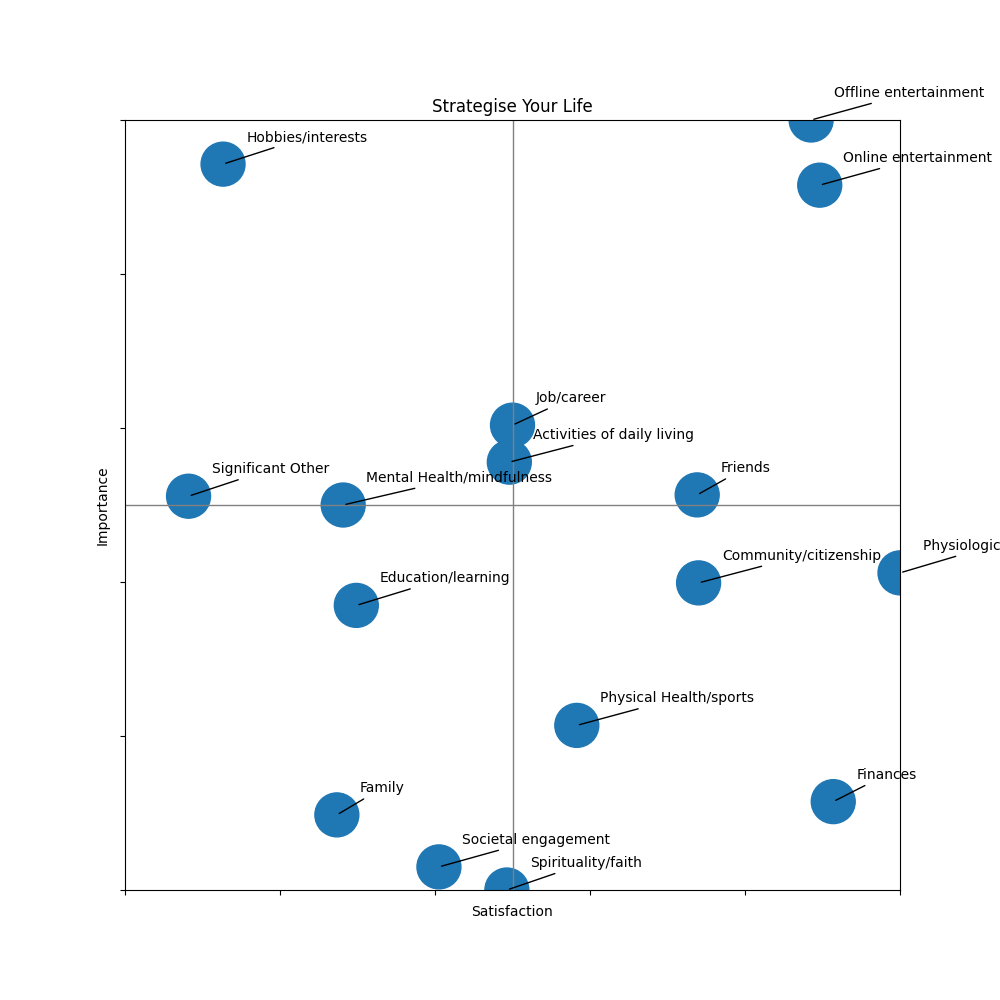
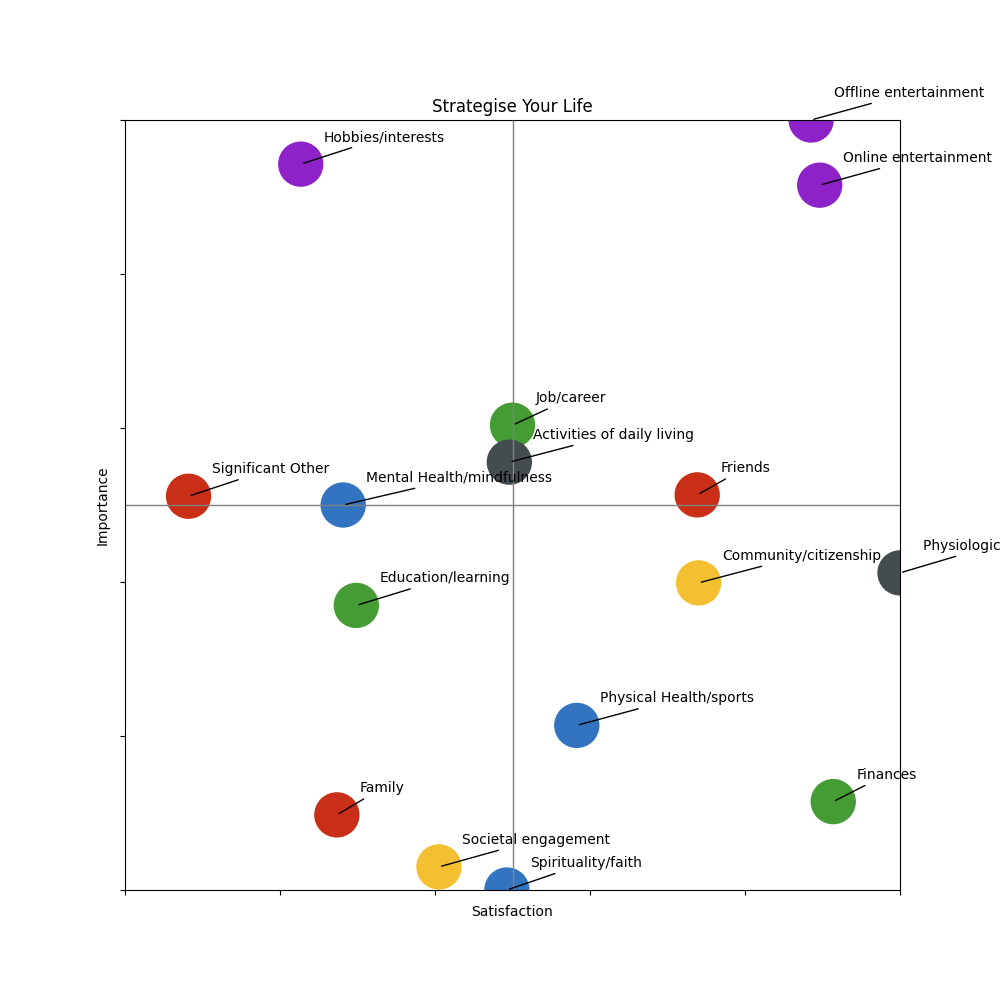
Added colours to the chart

diff --git a/website/visuals.py b/website/visuals.py
@@ -12,6 +12,16 @@ def CreateVisual():
   df = pd.read_sql('SELECT * FROM strategise_your_life', conn)
   
   #defining the colours for the categories
+  colours = {
+    'Relationships': '#c92f16', 
+    'Body mind and spirituality': '#3374c1', 
+    'Community and society': '#f5bf32',
+    'Job learning and finances': '#469c34',
+    'Interests and entertainment': '#8e22c9',
+    'Personal care': '#434c4f'
+  }
+
+  colour_list = [colours[group] for group in df['strategicLifeAreas']]
 
   fig = plt.figure(figsize=(10,10))
   ax = fig.add_subplot(111)
@@ -30,7 +40,7 @@ def CreateVisual():
   plt.plot([0,100],[50,50], linewidth=1, color='grey' )
 
   #Plots the data points
-  plt.scatter(df['satisfaction'], df['importance'], df['timeInvested']*100),# c=colour_list)
+  plt.scatter(df['satisfaction'], df['importance'], df['timeInvested']*100, c=colour_list)
 
   #adds the labels to the points
   for i, txt in enumerate(df['strategicLifeUnits']):
